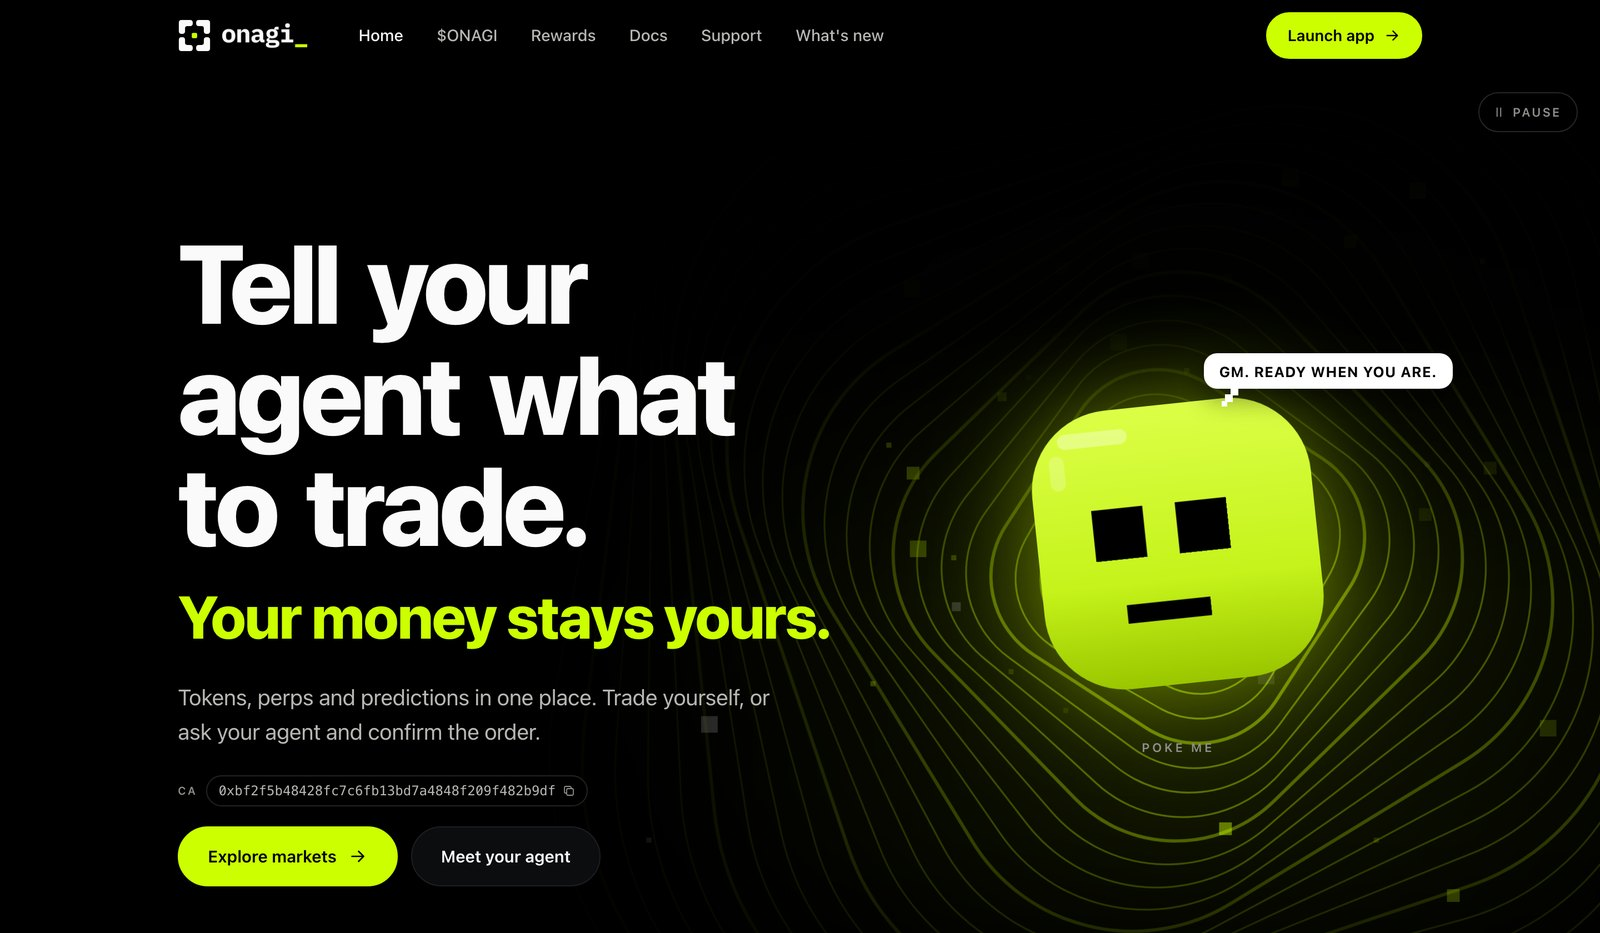
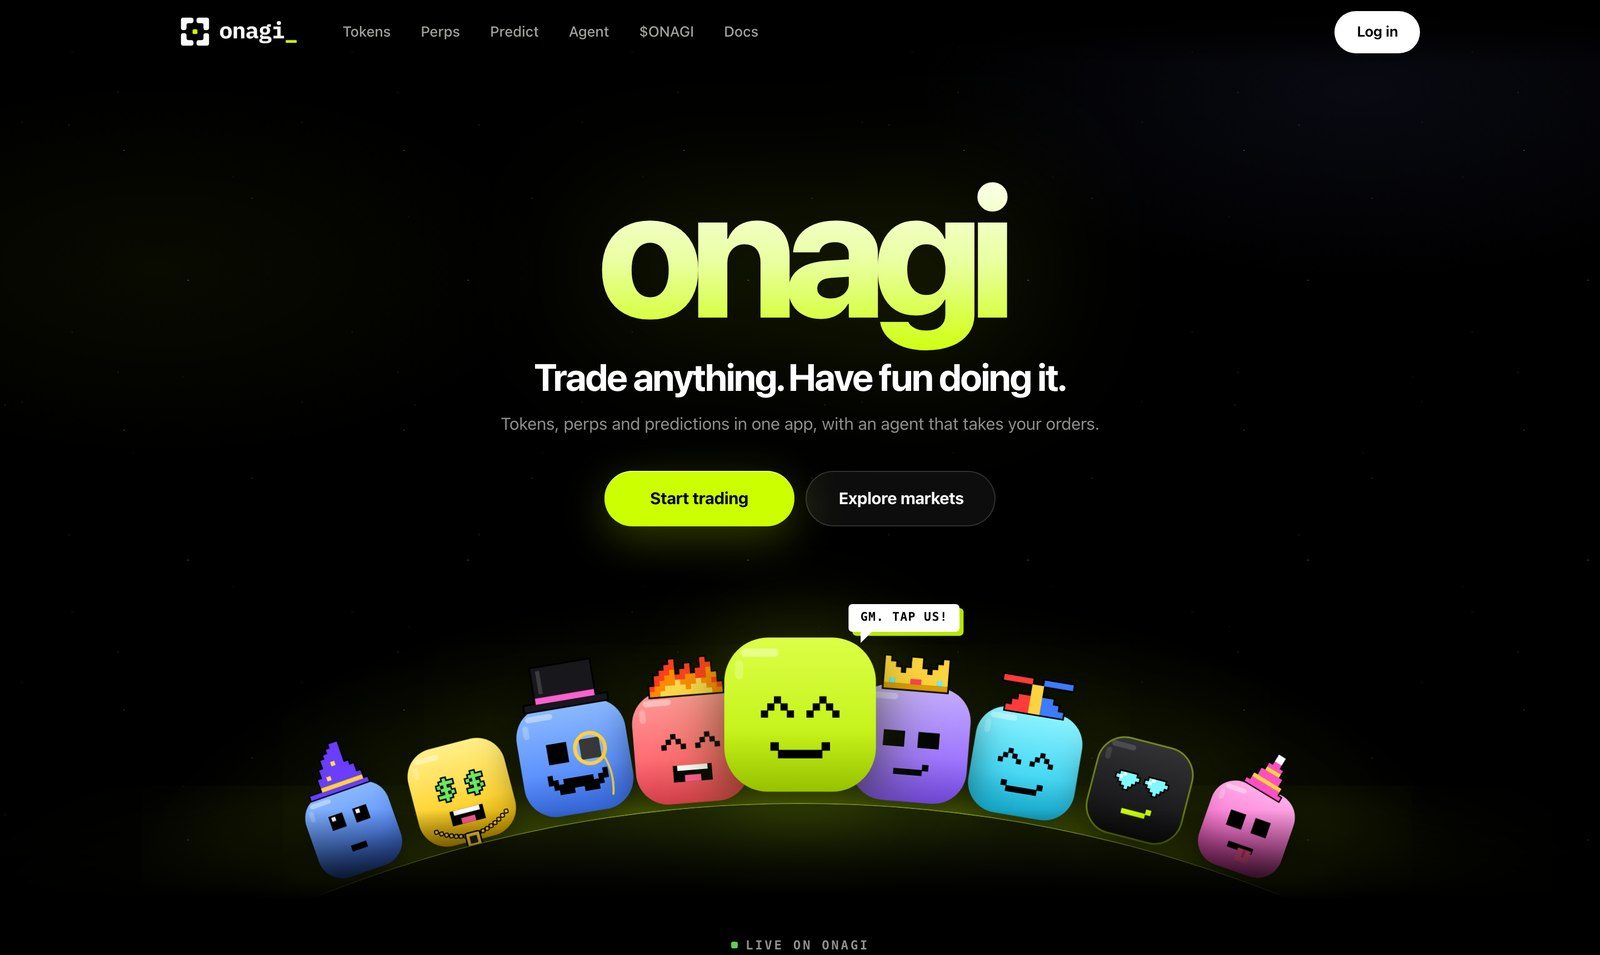
Move to the new Onagi design
New hero, live stats, product tour with real desktop and mobile
screens, the new product grid and the crew. New lime mark, wordmark
and crew characters in brand/.

diff --git a/README.md b/README.md
@@ -1,15 +1,12 @@
 <p align="center">
-  <picture>
-    <source media="(prefers-color-scheme: dark)" srcset="brand/onagi-lockup-on-black.svg">
-    <img src="brand/onagi-lockup-on-white.svg" width="260" alt="Onagi">
-  </picture>
+  <a href="https://onagi.si"><img src="assets/site-hero.jpg" alt="Onagi. Trade anything. Have fun doing it." width="100%"></a>
 </p>
 
-<h3 align="center">The social trading app with an AI agent, on Robinhood Chain.</h3>
+<h3 align="center">Trade anything. Have fun doing it.</h3>
 
 <p align="center">
-  Tokens, perps and predictions from one wallet. Trade yourself, follow other traders,<br>
-  or tell your agent what you want and confirm the order it prepares.
+  Tokens, perps and predictions in one app, with an agent that takes your orders.<br>
+  Social trading on Robinhood Chain, on the web and in Telegram.
 </p>
 
 <p align="center">
@@ -22,16 +19,24 @@
   <a href="https://dune.com/onagi/onagi"><img src="https://img.shields.io/badge/Dune-dashboard-FAFAFA?style=flat-square&labelColor=000000" alt="Dune"></a>
 </p>
 
-<p align="center">
-  <img src="assets/site-hero.jpg" alt="Onagi: tell your agent what to trade. Your money stays yours." width="100%">
-</p>
+<table align="center">
+  <tr>
+    <td align="center"><h2>297</h2><sub>Total users</sub></td>
+    <td align="center"><h2>$657K+</h2><sub>Total volume</sub></td>
+    <td align="center"><h2>$20K+</h2><sub>Total revenue</sub></td>
+    <td align="center"><h2>101</h2><sub>Repeat traders</sub></td>
+  </tr>
+</table>
+
+<p align="center"><sub>Live on Onagi, November 6, 2026 · Live figures on <a href="https://defillama.com/protocol/onagi">DefiLlama</a> and <a href="https://dune.com/onagi/onagi">Dune</a></sub></p>
 
 ---
 
 ## Contents
 
-- [Onagi at a glance](#onagi-at-a-glance)
-- [Products](#products)
+- [One account. Every screen.](#one-account-every-screen)
+- [Product tour](#product-tour)
+- [Everything you trade](#everything-you-trade)
 - [Social trading](#social-trading)
 - [The AI agent](#the-ai-agent)
 - [Your money stays yours](#your-money-stays-yours)
@@ -42,43 +47,61 @@
 - [Verification and public data](#verification-and-public-data)
 - [Integrations](#integrations)
 - [Documentation](#documentation)
+- [Your crew is already trading](#your-crew-is-already-trading)
 - [Source code](#source-code)
 - [Contact](#contact)
 
 ---
 
-## Onagi at a glance
+## One account. Every screen.
+
+<p align="center">
+  <img src="assets/site-devices.jpg" alt="One account. Every screen." width="100%">
+</p>
+
+Open a trade on your phone, close it on your laptop. Same wallet, same positions, everywhere: the web app, the mobile web app and the Telegram agent all run on one account.
 
 | | |
 |---|---|
 | **What** | Social trading app with an AI agent: tokens, perpetuals and prediction markets in one account |
-| **Where** | Web ([app.onagi.si](https://app.onagi.si)) and Telegram ([@OnagiAgentBot](https://t.me/OnagiAgentBot)) |
-| **Chain** | Robinhood Chain (EVM, chain id 4663). Solana tokens are tradable from the same account |
+| **Where** | Web ([app.onagi.si](https://app.onagi.si)), mobile web and Telegram ([@OnagiAgentBot](https://t.me/OnagiAgentBot)) |
+| **Chains** | Robinhood Chain (EVM, chain id 4663) and Solana, in one token list |
 | **Custody** | Self-custodial. Embedded wallet per user; Onagi holds a limited, revocable trading permission |
 | **Venues** | Pons and Uniswap v2 / v3 / v4 (tokens), Lighter (perps), Polymarket (predictions) |
 | **Languages** | The agent speaks 22 languages |
 
-**Traction** (as of November 6, 2026)
+---
 
-| Users | Have traded | Came back to trade again | Total trading volume | Active, last 7 days |
-|:---:|:---:|:---:|:---:|:---:|
-| **297** | **134** | **101** | **$657K+** | **193** |
+## Product tour
 
-Live figures: [DefiLlama](https://defillama.com/protocol/onagi) · [Dune](https://dune.com/onagi/onagi) · [Rewards record](https://onagi.si/payouts)
+**Desktop.** Live token list, TradingView chart, one-tap Buy and Sell, and the token's posts, holders and trades in one view.
+
+<p align="center">
+  <img src="assets/app-desktop.jpg" alt="Onagi web app: ETH token page with chart, order ticket and live trades" width="100%">
+</p>
+
+**Mobile.** A trader's public profile, the home screen with top traders and tokens, a BTC perp with its order book, and the token list.
+
+<p align="center">
+  <img src="assets/app-mobile.jpg" alt="Onagi on iPhone: profile, home, BTC perp and token list" width="100%">
+</p>
 
 ---
 
-## Products
+## Everything you trade
 
 <p align="center">
-  <img src="assets/site-markets.jpg" alt="Three ways to trade. One wallet." width="100%">
+  <img src="assets/site-products.jpg" alt="Everything you trade. One fun little app." width="100%">
 </p>
 
 | Product | What you can do | Venue |
 |---|---|---|
-| **Tokens** | Swap new launches and majors straight from your wallet. Live boards for trending tokens, new launches and bonding curves, with warnings for copycats and low liquidity | Pons, Uniswap v2 / v3 / v4 on Robinhood Chain |
-| **Perps** | Go long or short with up to 50x leverage on crypto, stocks and commodities. Isolated margin per position, with stops and targets placed on the exchange itself | Lighter, in an account opened in your wallet's name |
-| **Predict** | Real event markets and five-minute price rounds on BTC, ETH, SOL and XRP | Polymarket, in a wallet opened in your name |
+| **Tokens** | Robinhood Chain and Solana tokens in one list. Swap new launches and majors straight from your wallet, with live boards for trending tokens, new launches and bonding curves, and warnings for copycats and low liquidity | Pons, Uniswap v2 / v3 / v4 on Robinhood Chain; Solana |
+| **Perps** | Go long or short on crypto, stocks and gold, with up to 50x leverage. Isolated margin per position, with stops and targets placed on the exchange itself | Lighter, in an account opened in your wallet's name |
+| **Predict** | Call the next five minutes on BTC, ETH, SOL and XRP, or trade real event markets | Polymarket, in a wallet opened in your name |
+| **Agent** | Tell your agent. You confirm, it trades | Same venues, same checks |
+| **Social** | Follow the traders who move first | Feed, profiles, posts, Trade alerts |
+| **Rewards** | Hold ONAGI, earn USDG every hour | 50% of the fee pool |
 
 Money can also be brought in from other networks in one step, converted to USDG on Robinhood Chain.
 
@@ -101,11 +124,7 @@ Onagi is built around people, not just order books.
 
 ## The AI agent
 
-<p align="center">
-  <img src="assets/site-agent-telegram.jpg" alt="Your agent lives in Telegram too." width="100%">
-</p>
-
-Tell the agent what you want, in chat on the web or in Telegram.
+Tell the agent what you want, in chat on the web or in Telegram ([@OnagiAgentBot](https://t.me/OnagiAgentBot)).
 
 1. **You ask.** "Long ETH 5x with $50", "buy $20 of ONAGI", "move $20 to Predict".
 2. **It prepares a card.** The card shows the order exactly as the agent understood it.
@@ -123,10 +142,6 @@ What else it does:
 ---
 
 ## Your money stays yours
-
-<p align="center">
-  <img src="assets/site-permission.jpg" alt="A limited permission. In your name." width="100%">
-</p>
 
 Onagi does not hold user funds. Sign-in (email, Google or X) creates an embedded wallet whose key is secured by Privy, not by Onagi. Each user has three pockets, all in their own name:
 
@@ -206,10 +221,6 @@ More: [docs/FEES-AND-REWARDS.md](docs/FEES-AND-REWARDS.md)
 
 ## Fee pool and holder rewards
 
-<p align="center">
-  <img src="assets/site-rewards.jpg" alt="Hold ONAGI. Rewards in USDG." width="100%">
-</p>
-
 Platform fees and ONAGI creator fees fund one fee pool, split by a published allocation:
 
 | Share | Goes to |
@@ -277,6 +288,14 @@ More: [docs/TOKEN.md](docs/TOKEN.md)
 | [Verification](docs/VERIFICATION.md) | Public wallets and how to check every claim on-chain |
 | [Brand assets](brand/) | Logos and colours |
 | [Full docs](https://onagi.si/docs) | The complete, always-current reference on onagi.si |
+
+---
+
+## Your crew is already trading
+
+<p align="center">
+  <a href="https://app.onagi.si"><img src="assets/site-crew.jpg" alt="Your crew is already trading. Pick a face, find your people, make your first trade in a minute." width="100%"></a>
+</p>
 
 ---
 

diff --git a/brand/README.md b/brand/README.md
@@ -1,6 +1,8 @@
 # Onagi brand assets
 
-Official Onagi logos for partners, listings and press.
+Official Onagi logos and characters for partners, listings and press.
+
+<p><img src="onagi-wordmark-lime.png" width="320" alt="onagi"></p>
 
 ## Colours
 
@@ -21,7 +23,26 @@ Typeface: [Inter](https://fonts.google.com/specimen/Inter).
 | `onagi-lockup-lime.svg` / `.png` | Full logo with the lime accent, on dark backgrounds |
 | `onagi-icon-on-black.svg` / `-512.png` | App icon on black |
 | `onagi-icon-on-white.svg` / `-512.png` | App icon on white |
+| `onagi-mark-lime.svg` | Mark in Onagi lime, for dark backgrounds |
+| `onagi-wordmark-lime.png` | The "onagi" wordmark in lime, as used on the website |
 | `onagi-agent.svg` / `-512.png` | The Onagi agent character |
+| `crew/*.svg` | The Onagi crew: the characters users pick as their face |
+
+## The crew
+
+<p>
+  <img src="crew/wizard.svg" height="64" alt="Wizard">
+  <img src="crew/rich.svg" height="64" alt="Rich">
+  <img src="crew/whale.svg" height="64" alt="Whale">
+  <img src="crew/degen.svg" height="64" alt="Degen">
+  <img src="crew/og.svg" height="64" alt="OG">
+  <img src="crew/king.svg" height="64" alt="King">
+  <img src="crew/copter.svg" height="64" alt="Copter">
+  <img src="crew/diamond.svg" height="64" alt="Diamond">
+  <img src="crew/party.svg" height="64" alt="Party">
+  <img src="crew/cat.svg" height="64" alt="Cat">
+  <img src="crew/nerd.svg" height="64" alt="Nerd">
+</p>
 
 ## Usage
 
